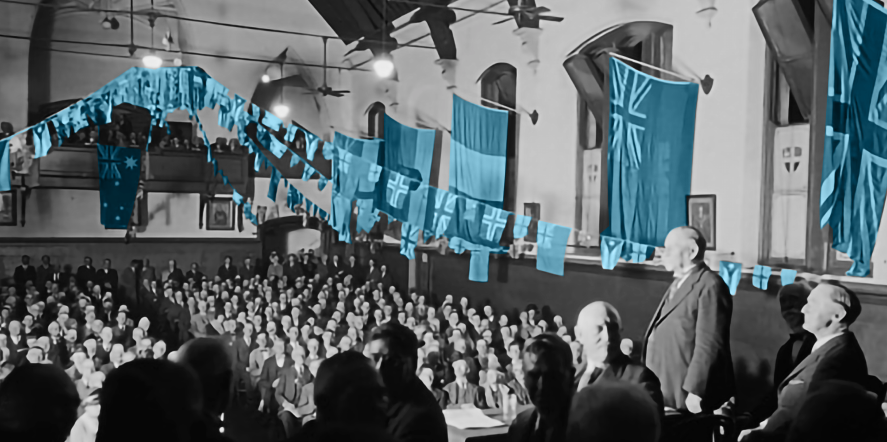
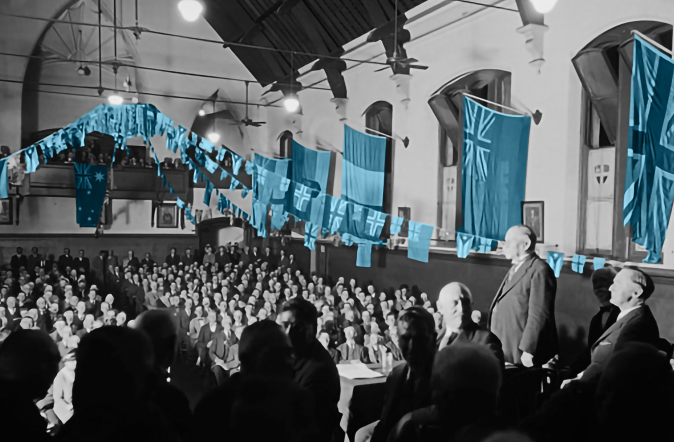
updates

diff --git a/responsive.css b/responsive.css
@@ -1,7 +1,15 @@
 /* Smaller desktop size that is exact pixel width to our figma compositions this is more just incase inbetweener from larger desktops to tablet*/
 @media only screen and (max-width:1440px){
+    .charcoalbg {
+        padding-bottom: 350px;
+    }
 
+    .lowerimage {
+        margin-top: 15%;
+        margin-left: -110%;
+    }
 }
+
 /* Tablet size */
 @media only screen and (max-width:768px) {
     .navbar-collapse {
@@ -30,14 +38,14 @@
     }
 
     .liveissuestitle {
-        font-size: 43px;
+        font-size: 40px;
         margin-top: 35px;
     }
 
     .livep {
         margin-left: 15%;
         color: white;
-        font-size: 12px;
+        font-size: 14px;
     }
 
     .charcoalbg {
@@ -45,15 +53,19 @@
     }
 
     .bigbutton2 {
-    position: absolute;
-    background-color: var(--Ochre);
-    display: inline-block;
-    border-radius: 12px;
-    color: white;
-    margin-top: 8%;
-    text-align: center;
-    width: 130%;
-    height: 8%;
+        background-color: var(--Ochre);
+        display: inline-block;
+        border-radius: 12px;
+        color: white;
+        margin-left: 37px;
+        margin-top: 42px;
+    }
+
+    .buttontext {
+        color: white;
+        font-size: 18px;
+        font-weight: bolder;
+        white-space: nowrap;
     }
 
     h1 {
@@ -63,12 +75,143 @@
         line-height: 60px;
     }
 
+    .livebox {
+        background-color: var(--Beige);
+        height: 830px;
+        width: 272px;
+        margin-top: -300px;
+    }
+
+    .image-livebox {
+        float: right;
+        position: absolute;
+        right: 102px;
+        bottom: 0;
+    }
+
+    .lowerimage {
+        margin-top: 136px;
+        position: absolute;
+        width: 359px;
+        right: 95%;
+    }
+
+    .sectionlower-text {
+        padding-right: 196%;
+        padding-top: 60%;
+        padding-left: 22%;
+    }
+
+    .sectionbgdarkbottom {
+        background-color: var(--LighterBlack);
+        width: 930px;
+        height: 380px;
+        margin-bottom: 15%;
+        margin-left: 24%;
+        margin-top: 60%;
+    }
+    
+    h3 {
+        color: white;
+        font-family: adobe-caslon-pro, serif;
+        font-size: 40px;
+        font-weight: 700;
+        font-style: normal;
+        margin-top: 50px;
+        text-align: center;
+        width: 110%;
+    }
+
+    .lowertitle {
+        color: white;
+        text-align: left;
+        margin-left: 80px;
+        margin-top: -106px;
+    }
+
+    .lowertext {
+        color: white;
+        text-align: left;
+        font-size: 14px;
+        padding-bottom: 5%;
+        margin-left: 81px;
+        padding-right: 85px;
+    }
+
+    .bigbutton3 {
+        background-color: var(--Ochre);
+        padding: 15px 60px;
+        display: inline-block;
+        border-radius: 12px;
+        color: white;
+        margin-left: 80px;
+        padding-right: 20px;
+        padding-left: 20px;
+    }
+
+    .sectionbglighttop {
+        background-color: var(--Beige);
+        width: 629px;
+        height: 324px;
+        margin-top: 17%;
+        margin-left: -32%;
+        margin-bottom: 100px;
+    }
+
+    .sectionlower-text {
+        padding-right: 130%;
+        padding-top: 60%;
+        padding-left: 67%;
+    }
+
+    .uppertext {
+        text-align: left;
+        font-size: 14px;
+        padding-bottom: 5%;
+        padding-right: 140px;
+    }
+
+    .upperimage {
+        margin-top: 155px;
+        position: absolute;
+        width: 359px;
+        right: -31%;
+    }
 }
-
-
-
 
 /* Mobile size, which is relatively larger for newer phones */
 @media only screen and (max-width:510px){
+    h2 {
+        margin-left: 450px;
+    }
 
+    h1 {
+        margin-left: 450px;
+    }
+
+    .for {
+        margin-left: 500px;
+    }
+
+    .history {
+        margin-left: 475px;
+    }
+
+    .bigbutton1 {
+
+    }
+
+    .coverimage {
+        position: absolute;
+        margin-top: 355px;
+        width: 495px;
+        margin-left: 3px;
+    }
+
+    .creambg {
+        background-color: var(--Beige);
+        background-size: cover;
+        padding-bottom: 350px;
+        margin-top: 25px;
+    }
 }

diff --git a/index.html b/index.html
@@ -155,7 +155,7 @@
                 </div>
             </div>
             <div class="col-md-6">
-                <img class="lowerimage" src="images/lecture.png">
+                <img class="lowerimage" src="images/Lecture.jpg">
             </div>
         </div>
     </div>
